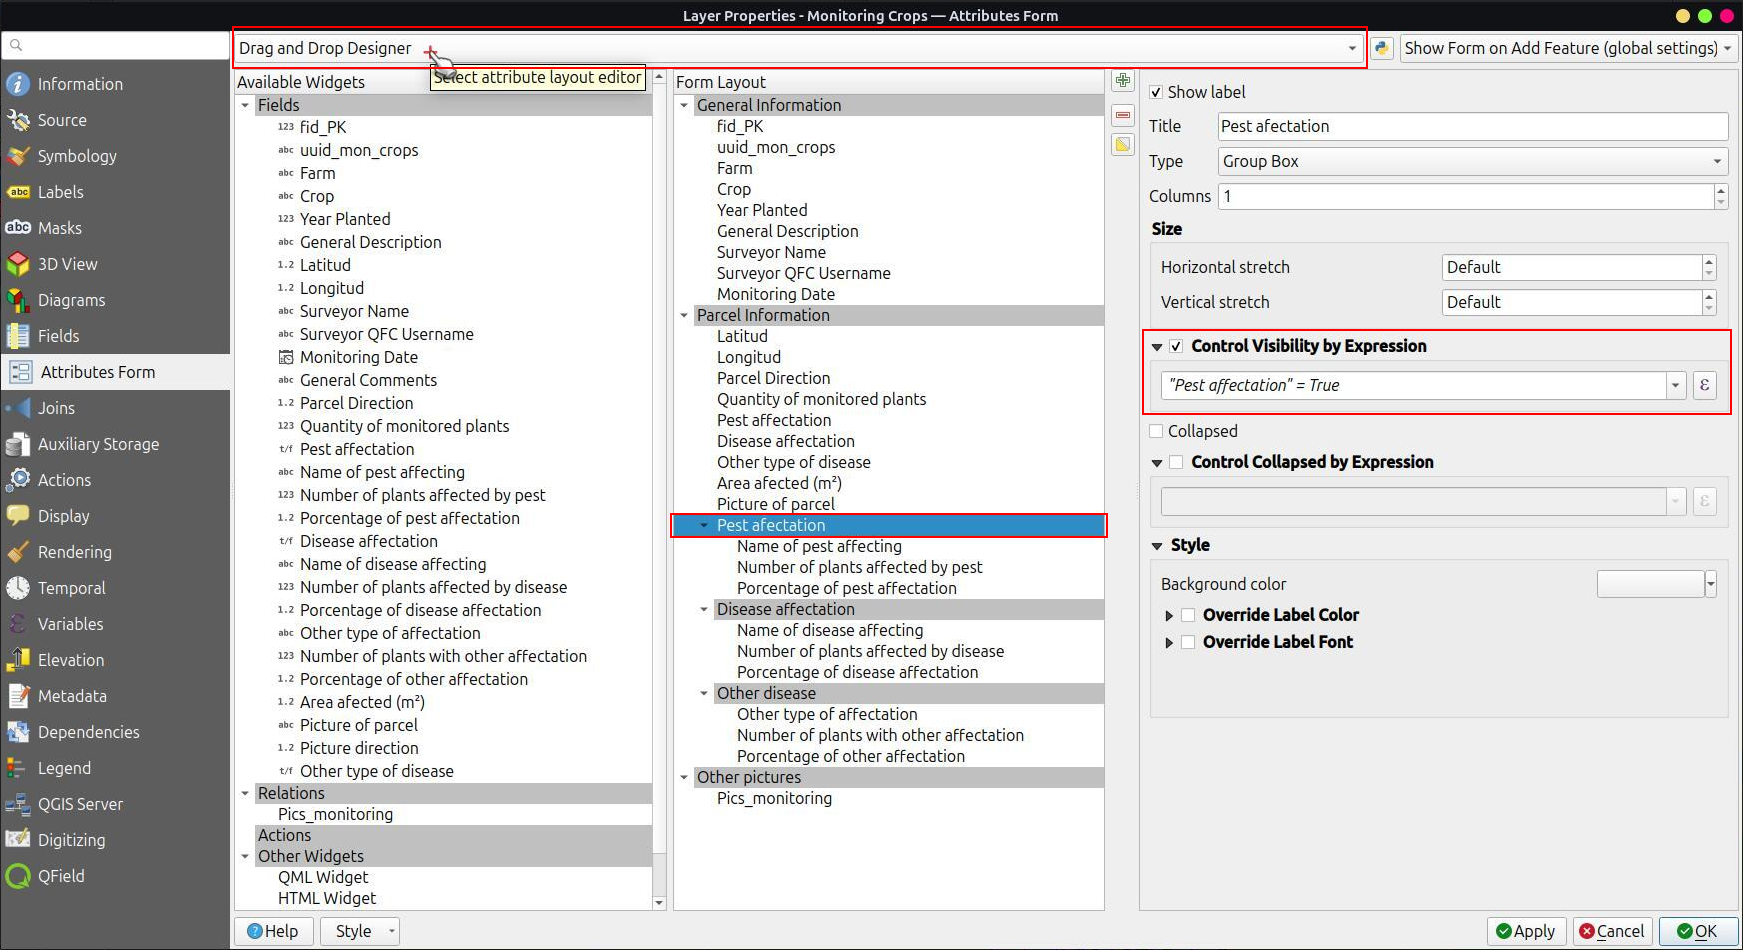
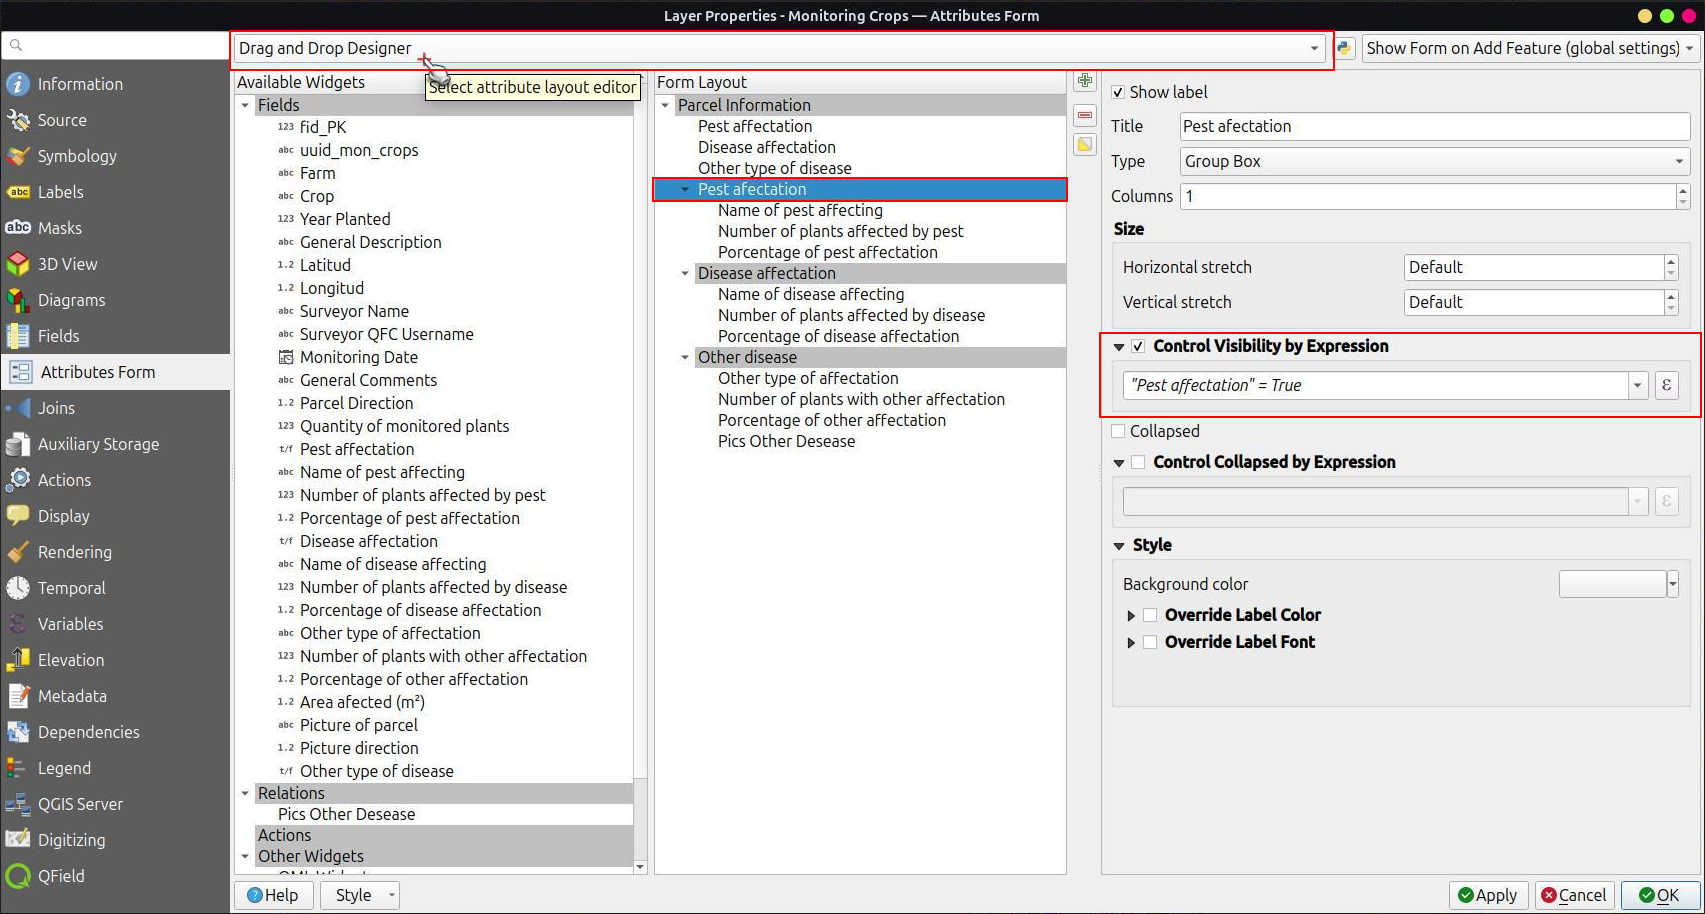
Adding link to QGIS documentation for drag and drop design and replacing the picture for only boolean fields

Changed region(s): [[0.0, 0.0, 1.0, 1.0], [0.6528, 0.9497, 1.0, 1.0], [0.9326, 0.6127, 0.9947, 0.6433]]

diff --git a/documentation/how-to/attributes-form.en.md b/documentation/how-to/attributes-form.en.md
@@ -43,7 +43,7 @@ QField form.
 
 Groups and Tabs from Drag and Drop designer forms are supported.
 
-In the "Attributes Form," you can structure your forms using various containers, such as tabs and groups, and enhance interactivity by incorporating expression-based conditional visibility. By enabling the drag-and-drop designer, you gain the flexibility to re-order attribute fields, as well as gaining access to widgets that are not directly tied to specific fields (e.g., HTML/QML widgets).
+In the "Attributes Form," you can structure your forms using various containers, such as tabs and groups, and enhance interactivity by incorporating expression-based conditional visibility. By enabling the [Drag and Drop Designer](https://docs.qgis.org/latest/en/docs/user_manual/working_with_vector/vector_properties.html#vector-attributes-menu), you gain the flexibility to re-order attribute fields, as well as gaining access to widgets that are not directly tied to specific fields (e.g., HTML/QML widgets).
 
 !![](../assets/images/drag-and-drop-designer-attribute-forms.png)
 
